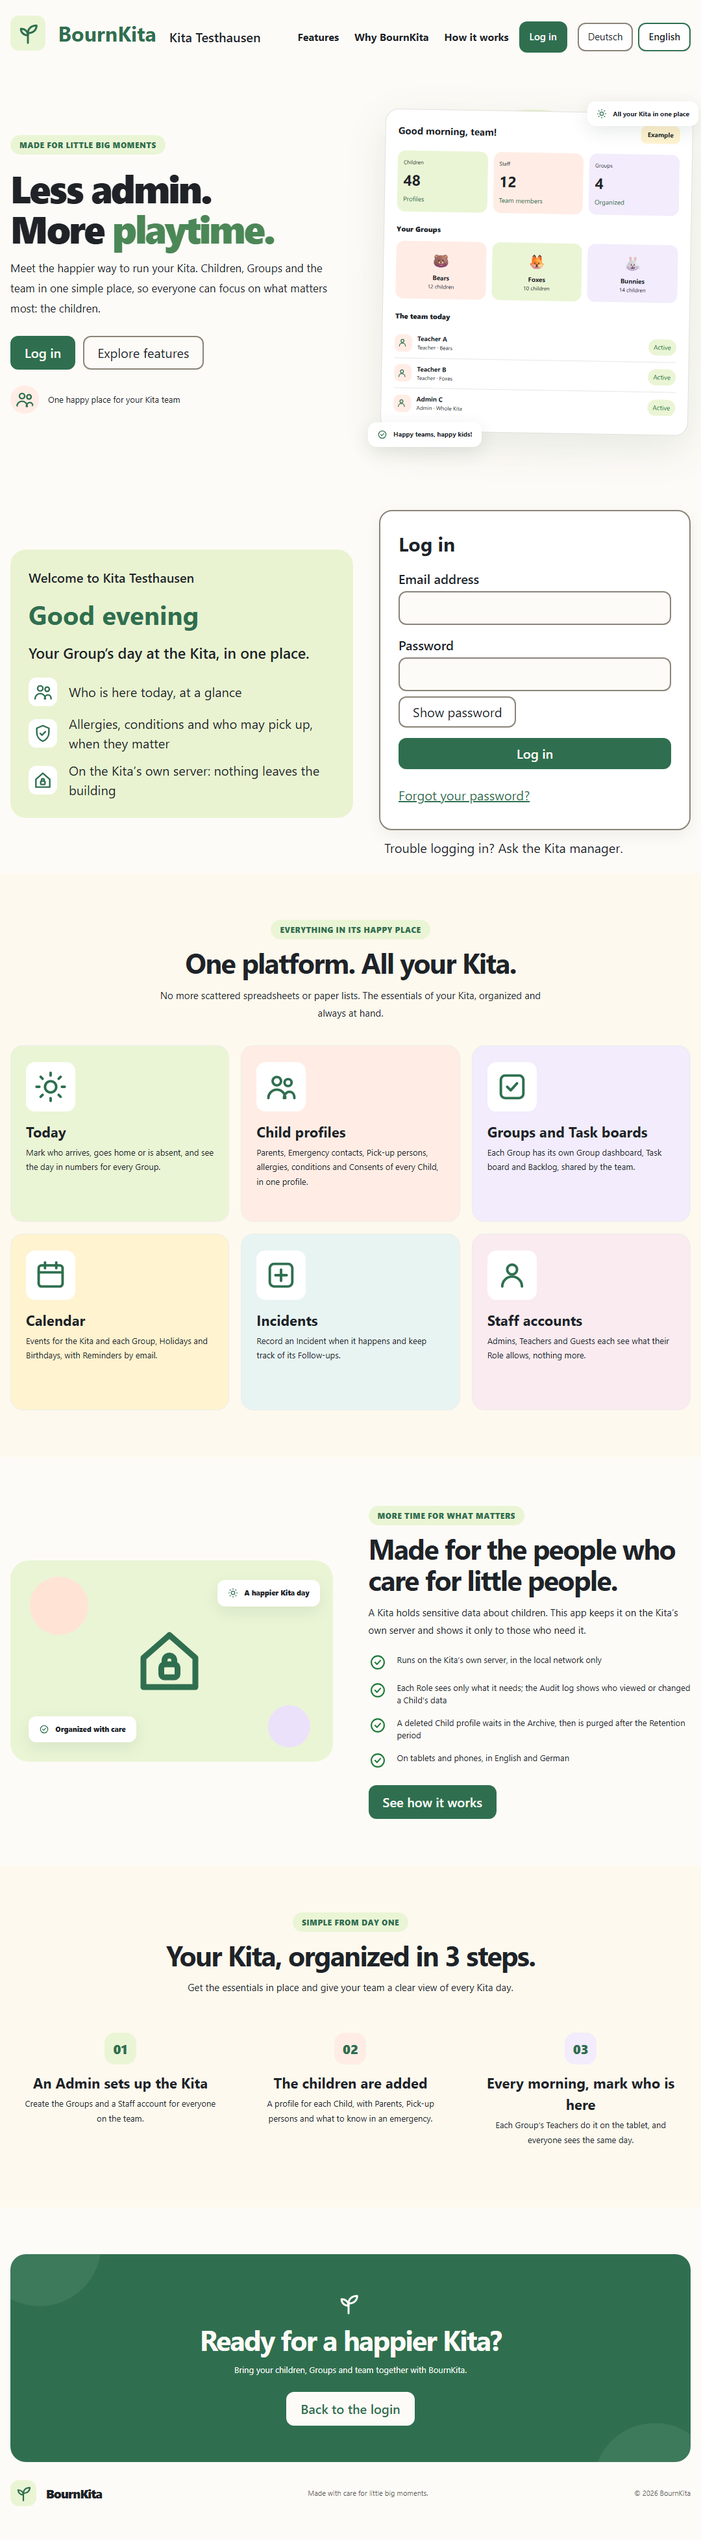
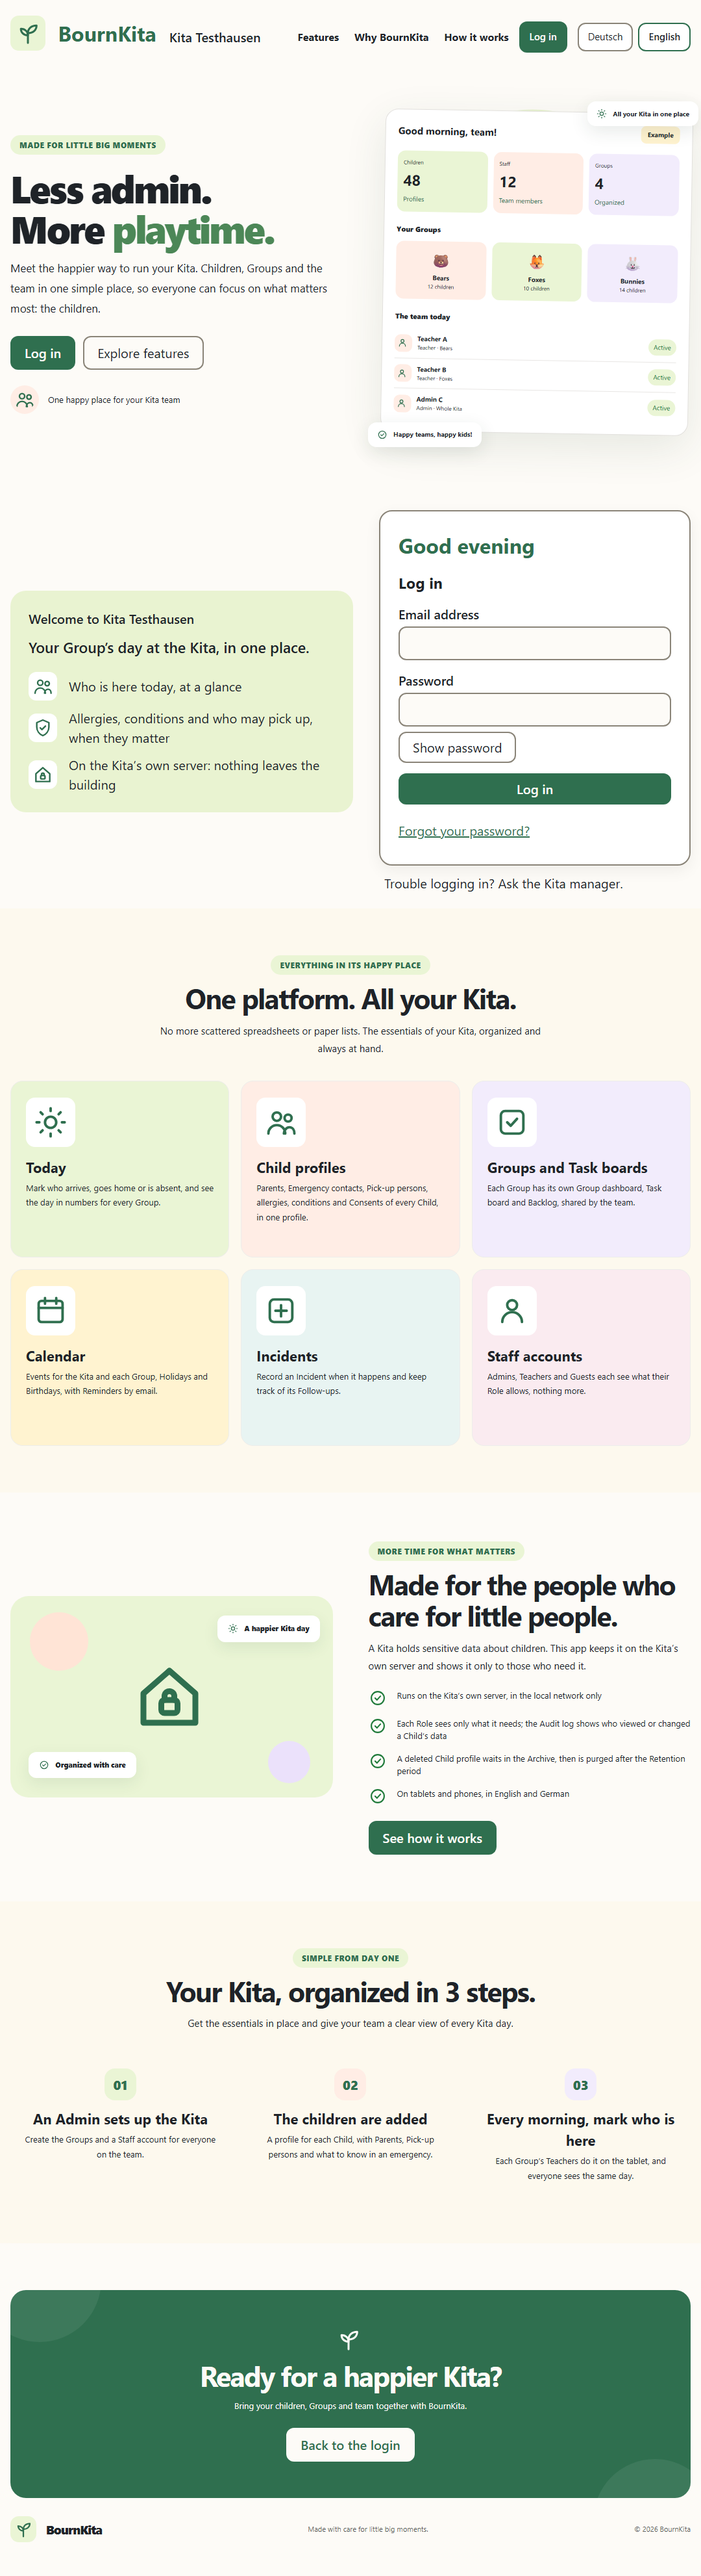
Fixes from the review of the Landing page (#59)
The greeting opens the login card, which has a section of its own; the hero
goes side by side from the design's own breakpoint and its buttons lift as in
the design. The end-to-end login goes through Log in, as staff do. The
section links share their ids, the German says Mitarbeiter:innen, and the old
name and the old "login page" are gone from tests, the example settings and
AGENTS.md.

diff --git a/frontend/src/LandingPage.tsx b/frontend/src/LandingPage.tsx
@@ -6,6 +6,7 @@ import Icon from './Icon'
 import LoginForm from './LoginForm'
 import LoginLink, { loginFormId } from './LoginLink'
 import SampleDay from './SampleDay'
+import { landingSectionIds } from './landingSections'
 
 const points = [
   { text: 'aboutToday', icon: 'children' },
@@ -41,6 +42,7 @@ export default function LandingPage({ kita, onLoggedIn }: { kita: Kita; onLogged
   const whyId = useId()
   const endId = useId()
   const heroId = useId()
+  const greetingId = useId()
   return (
     <div className="landing">
       <section className="landing-hero" aria-labelledby={heroId}>
@@ -55,7 +57,7 @@ export default function LandingPage({ kita, onLoggedIn }: { kita: Kita; onLogged
           <p className="landing-hero-lead">{t('heroLead')}</p>
           <div className="landing-actions">
             <LoginLink className="button primary">{t('logIn')}</LoginLink>
-            <a className="button" href="#features">
+            <a className="button" href={`#${landingSectionIds.features}`}>
               {t('exploreFeatures')}
             </a>
           </div>
@@ -66,15 +68,14 @@ export default function LandingPage({ kita, onLoggedIn }: { kita: Kita; onLogged
         </div>
         <SampleDay />
       </section>
-      <div className="login-page">
-        <section className="login-hero">
+      <section className="login-page" aria-labelledby={greetingId}>
+        <div className="login-hero">
           {(kita.name || kita.hasLogo) && (
             <p className="login-welcome">
               {kita.hasLogo && <img className="kita-logo" src="/api/kita/logo" alt={kita.name ? t('logoOf', { name: kita.name }) : t('kitaLogo')} />}
               {kita.name && t('welcomeTo', { name: kita.name })}
             </p>
           )}
-          <h2>{t(greeting())}</h2>
           <p className="login-tagline">{t('loginTagline')}</p>
           <p id={aboutId} className="visually-hidden">
             {t('whatYouFindHere')}
@@ -87,13 +88,21 @@ export default function LandingPage({ kita, onLoggedIn }: { kita: Kita; onLogged
               </li>
             ))}
           </ul>
-        </section>
+        </div>
         <div className="login-side">
-          <LoginForm id={loginFormId} onLoggedIn={onLoggedIn} />
+          <LoginForm
+            id={loginFormId}
+            greeting={
+              <h2 id={greetingId} className="login-greeting">
+                {t(greeting())}
+              </h2>
+            }
+            onLoggedIn={onLoggedIn}
+          />
           <p className="login-help">{t('loginHelp')}</p>
         </div>
-      </div>
-      <section id="features" className="landing-section landing-band" aria-labelledby={featuresId}>
+      </section>
+      <section id={landingSectionIds.features} className="landing-section landing-band" aria-labelledby={featuresId}>
         <div className="landing-center">
           <p className="landing-eyebrow">{t('eyebrowFeatures')}</p>
           <h2 id={featuresId}>{t('landingFeatures')}</h2>
@@ -109,7 +118,7 @@ export default function LandingPage({ kita, onLoggedIn }: { kita: Kita; onLogged
           ))}
         </ul>
       </section>
-      <section id="about" className="landing-section landing-why" aria-labelledby={whyId}>
+      <section id={landingSectionIds.why} className="landing-section landing-why" aria-labelledby={whyId}>
         <div className="landing-why-mark" aria-hidden="true">
           <span className="landing-bubble" />
           <span className="landing-bubble landing-bubble-small" />
@@ -135,12 +144,12 @@ export default function LandingPage({ kita, onLoggedIn }: { kita: Kita; onLogged
               </li>
             ))}
           </ul>
-          <a className="button primary" href="#how">
+          <a className="button primary" href={`#${landingSectionIds.how}`}>
             {t('seeHowItWorks')}
           </a>
         </div>
       </section>
-      <section id="how" className="landing-section landing-band" aria-labelledby={startId}>
+      <section id={landingSectionIds.how} className="landing-section landing-band" aria-labelledby={startId}>
         <div className="landing-center">
           <p className="landing-eyebrow">{t('eyebrowHow')}</p>
           <h2 id={startId}>{t('landingStart')}</h2>

diff --git a/frontend/src/index.css b/frontend/src/index.css
@@ -281,14 +281,6 @@ button[aria-pressed='true'] {
   color: var(--accent);
 }
 
-/* The landing page's promise, large, under the greeting. */
-.landing-headline {
-  margin: 0;
-  font-size: 1.6rem;
-  font-weight: 800;
-  line-height: 1.15;
-}
-
 .login-tagline {
   margin: 0;
   font-size: 1.15rem;
@@ -319,14 +311,6 @@ button[aria-pressed='true'] {
   background: var(--surface);
   border-radius: 12px;
 }
-
-
-
-
-
-
-
-
 
 .login-side {
   display: flex;
@@ -454,7 +438,8 @@ main.on-landing {
   padding: 48px 0 56px;
 }
 
-@media (min-width: 900px) {
+/* Side by side above the design's own breakpoint. */
+@media (min-width: 761px) {
   .landing-hero {
     grid-template-columns: minmax(0, 1.03fr) minmax(0, 0.97fr);
     padding: 64px 0 72px;
@@ -781,6 +766,17 @@ main.on-landing {
   transition: transform 0.2s, box-shadow 0.2s;
 }
 
+/* The design's buttons lift a little under the pointer. */
+.landing a.button,
+.on-landing .header-actions a.button {
+  transition: transform 0.2s;
+}
+
+.landing a.button:hover,
+.on-landing .header-actions a.button:hover {
+  transform: translateY(-2px);
+}
+
 .landing-features li:hover {
   transform: translateY(-5px);
   box-shadow: 0 12px 35px rgb(45 82 48 / 0.08);
@@ -1075,8 +1071,15 @@ main.on-landing {
   color: color-mix(in srgb, var(--text) 72%, var(--bg));
 }
 
-.login h2 {
+.login h2,
+.login h3 {
   margin: 0;
+}
+
+/* The greeting at the top of the login card, above "Log in". */
+.login .login-greeting {
+  font-size: 1.6rem;
+  color: var(--accent);
 }
 
 .login label {
@@ -1395,7 +1398,6 @@ button.danger {
   border-radius: 12px;
 }
 
-
 .main-nav a.active {
   color: var(--accent);
   font-weight: 700;
@@ -1505,11 +1507,15 @@ main.with-navigation {
 
 @media (prefers-reduced-motion: reduce) {
   .group-tile,
-  .landing-features li {
+  .landing-features li,
+  .landing a.button,
+  .on-landing .header-actions a.button {
     transition: none;
   }
 
-  .landing-features li:hover {
+  .landing-features li:hover,
+  .landing a.button:hover,
+  .on-landing .header-actions a.button:hover {
     transform: none;
   }
 }
@@ -2009,7 +2015,6 @@ main.with-navigation {
   height: 28px;
   min-height: 0;
 }
-
 
 /* Groups: the Admins' page, the start page's drop-down and the dashboard. */
 .groups ul {
@@ -2539,7 +2544,6 @@ main.with-navigation {
   border-radius: 12px;
   font-weight: 600;
 }
-
 
 .today-list {
   display: grid;

diff --git a/frontend/src/AppHeader.tsx b/frontend/src/AppHeader.tsx
@@ -4,6 +4,7 @@ import { logOut, type Kita, type Session } from './api'
 import EmergencyListLink from './EmergencyListLink'
 import HeaderMenu from './HeaderMenu'
 import LoginLink from './LoginLink'
+import { landingSectionIds } from './landingSections'
 import Icon from './Icon'
 import { GroupNavigation, MainNavigation } from './MainNavigation'
 
@@ -35,7 +36,7 @@ function useCurrentGroupId(): number | null {
 /** The top of every page: BournKita (back to the start page) and the Kita's own name; once someone is logged in, the
  * Emergency button, their account menu (who it is, language, Log out), the pages their Role may
  * open and, inside a Group, the Group's pages. Before that, the language choice. */
-type Props = { kita: Kita; session: Session | null; onLanding?: boolean; onLoggedOut: () => void }
+type Props = { kita: Kita; session: Session | null; onLanding: boolean; onLoggedOut: () => void }
 
 /** On the Landing page: its parts, and the way to the login. */
 function LandingLinks() {
@@ -43,16 +44,16 @@ function LandingLinks() {
   return (
     <>
       <nav aria-label={t('onThisPage')} className="landing-links">
-        <a href="#features">{t('navFeatures')}</a>
-        <a href="#about">{t('navWhy')}</a>
-        <a href="#how">{t('navHow')}</a>
+        <a href={`#${landingSectionIds.features}`}>{t('navFeatures')}</a>
+        <a href={`#${landingSectionIds.why}`}>{t('navWhy')}</a>
+        <a href={`#${landingSectionIds.how}`}>{t('navHow')}</a>
       </nav>
       <LoginLink className="button primary">{t('logIn')}</LoginLink>
     </>
   )
 }
 
-export default function AppHeader({ kita, session, onLanding = false, onLoggedOut }: Props) {
+export default function AppHeader({ kita, session, onLanding, onLoggedOut }: Props) {
   const { t } = useTranslation()
   const groupId = useCurrentGroupId()
   const isGuest = session?.role === 'guest'

diff --git a/frontend/src/LoginForm.tsx b/frontend/src/LoginForm.tsx
@@ -1,11 +1,14 @@
-import { useEffect, useId, useRef, useState, type FormEvent } from 'react'
+import { useEffect, useId, useRef, useState, type FormEvent, type ReactNode } from 'react'
 import { useTranslation } from 'react-i18next'
 import { Link } from 'react-router-dom'
 import { logIn, type Refusal, type Session } from './api'
 
 type Problem = Refusal | 'loginUnavailable' | null
 
-export default function LoginForm({ id, onLoggedIn }: { id?: string; onLoggedIn: (session: Session) => void }) {
+type Props = { id?: string; greeting?: ReactNode; onLoggedIn: (session: Session) => void }
+
+/** The login card; a greeting, when given, opens it. */
+export default function LoginForm({ id, greeting, onLoggedIn }: Props) {
   const { t } = useTranslation()
   const [email, setEmail] = useState('')
   const [password, setPassword] = useState('')
@@ -44,7 +47,8 @@ export default function LoginForm({ id, onLoggedIn }: { id?: string; onLoggedIn:
 
   return (
     <form id={id} className="login" aria-labelledby={headingId} onSubmit={(event) => void submit(event)}>
-      <h2 id={headingId}>{t('logIn')}</h2>
+      {greeting}
+      <h3 id={headingId}>{t('logIn')}</h3>
       <label>
         {t('emailAddress')}
         <input type="email" autoComplete="username" required value={email} onChange={(event) => setEmail(event.target.value)} />

diff --git a/frontend/e2e/credentials.ts b/frontend/e2e/credentials.ts
@@ -2,8 +2,9 @@ import { expect, type Page } from '@playwright/test'
 
 export const e2eAdmin = { email: 'e2e-admin@kita.example', password: 'e2e admin password' }
 
-/** Fills in and sends the login form that is on screen. */
+/** Taps Log in at the top of the Landing page, then fills in and sends the login form. */
 export async function logIn(page: Page, email: string, password: string): Promise<void> {
+  await page.getByRole('link', { name: 'Log in' }).first().tap()
   await page.getByLabel('Email address').fill(email)
   await page.getByLabel('Password').fill(password)
   await page.getByRole('button', { name: 'Log in' }).tap()

diff --git a/frontend/e2e/login.spec.ts b/frontend/e2e/login.spec.ts
@@ -16,7 +16,7 @@ test('a Staff member logs in from the start page and logs out again', async ({ p
   await logOut(page)
 })
 
-test('the login page shows the Kita\'s name and lets the password be shown', async ({ page }) => {
+test('the Landing page shows the Kita\'s name and lets the password be shown', async ({ page }) => {
   await page.goto('/')
 
   await expect(page.getByRole('heading', { level: 1, name: 'BournKita' })).toBeVisible()

diff --git a/frontend/src/i18n.ts b/frontend/src/i18n.ts
@@ -589,8 +589,8 @@ export const resources = {
       sampleExample: 'Beispiel',
       sampleChildren: 'Kinder',
       sampleChildrenNote: 'Profile',
-      sampleStaff: 'Team',
-      sampleStaffNote: 'Mitarbeitende',
+      sampleStaff: 'Mitarbeiter:innen',
+      sampleStaffNote: 'Im Team',
       sampleGroups: 'Gruppen',
       sampleGroupsNote: 'Organisiert',
       sampleYourGroups: 'Ihre Gruppen',

diff --git a/frontend/e2e/smoke.spec.ts b/frontend/e2e/smoke.spec.ts
@@ -1,6 +1,6 @@
 import { expect, test } from '@playwright/test'
 
-test('the login page is in English and German', async ({ page }) => {
+test('the Landing page is in English and German', async ({ page }) => {
   await page.goto('/')
 
   await expect(page.getByRole('button', { name: 'Log in' })).toBeVisible()

diff --git a/frontend/src/LandingPage.test.tsx b/frontend/src/LandingPage.test.tsx
@@ -8,7 +8,7 @@ import { fakeApi, health, renderAt, sessionAs } from './testing'
 
 const loggedOut = { status: 401, body: { detail: 'not_logged_in' } }
 
-describe('login page', () => {
+describe('the login card', () => {
   beforeEach(() => {
     vi.useFakeTimers({ toFake: ['Date'] })
   })

diff --git a/frontend/src/landingSections.ts b/frontend/src/landingSections.ts
@@ -1,0 +1,2 @@
+/** The Landing page's parts that the top bar and the page's own links lead to. */
+export const landingSectionIds = { features: 'features', why: 'why', how: 'how' } as const

diff --git a/backend/src/kita/kita_api.py b/backend/src/kita/kita_api.py
@@ -20,7 +20,7 @@ _LOGO_TYPES = {
 class KitaOut(BaseModel):
     model_config = CAMEL_CASE
 
-    # None: the app calls itself "Kita Kids Database".
+    # None: the app shows only its own name, BournKita.
     name: str | None
     has_logo: bool
 

diff --git a/AGENTS.md b/AGENTS.md
@@ -1,6 +1,6 @@
 # BournKita
 
-Kita Kids Database: a web application for kindergarten staff (Python + TypeScript, local-network server). The development plan is in `Kita_Development_Plan.xlsx`.
+BournKita (formerly Kita Kids Database): a web application for kindergarten staff (Python + TypeScript, local-network server). The development plan is in `Kita_Development_Plan.xlsx`.
 
 ## Agent skills
 
